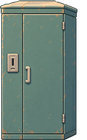
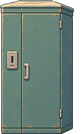
Ducha de la plaza donde la marcó el autor: a la derecha de la fuente, abierta y cerrada, a escala con el fondo
Claude-Session: https://claude.ai/code/session_01FYCCD4ovNXzH9stagu8csu

diff --git a/src/core/lugares.ts b/src/core/lugares.ts
@@ -159,8 +159,9 @@ const PLAZA: Escenario = {
   fondos: [[0, 'plaza']],
   suelo: { x0: 20, x1: 460, y0: 186, y1: 262 },
   inicio: { x: 220, y: 226 },
-  // Entre el banco y la fuente: lejos de las palomas, que se ven pintadas en el fondo.
-  duchas: [{ x: 166, y: 156, alto: 70, px: 166, py: 196, dibujo: 'plaza', imagen: 'ducha_plaza', abierta: 'ducha_plaza_abierta' }],
+  // A la derecha de la fuente, delante de los arbustos, donde la marcó el autor sobre una captura (R031).
+  // Las palomas del fondo quedan delante, más abajo, sin taparse.
+  duchas: [{ x: 325.7, y: 136.5, alto: 67, px: 325, py: 190, dibujo: 'plaza', imagen: 'ducha_plaza', abierta: 'ducha_plaza_abierta' }],
   zonas: [
     { id: 'banco', nombre: 'Banco de la plaza', x0: 64, y0: 120, x1: 146, y1: 172, px: 105, py: 198,
       mirar: ['Mi nuevo dormitorio. Tiene vista a la fuente y techo de árbol.', 'Un banco de madera. Más cómodo que el cartón, te lo aseguro.'],

diff --git a/scripts/arte/duchas_nuevas.py b/scripts/arte/duchas_nuevas.py
@@ -41,7 +41,7 @@ reducir(cab, 88).save(B + 'objetos/ducha_callejon_1.png')
 CAJA = (175, 291, 900, 1464)
 for src, dst in [('ducha_plaza_cerrada.png', 'ducha_plaza.png'), ('ducha_plaza_abierta.png', 'ducha_plaza_abierta.png')]:
     im = Image.open(F + src).convert('RGBA').crop(CAJA)
-    r = reducir(im, 70)
+    r = reducir(im, 67)
     r.save(B + 'objetos/' + dst)
     print(dst, r.size)
 

diff --git a/docs/DECISIONES.md b/docs/DECISIONES.md
@@ -245,3 +245,11 @@ Al autor no le gustaron las duchas recortadas del fondo y preparó dibujos propi
 - **Datos:** cada ducha indica su dibujo (`dibujo`, `imagen`, `abierta`) o una `puerta` del fondo. `DIBUJOS_DUCHA` tiene los tamaños para calcular la abertura.
 - **Imágenes:** `scripts/arte/duchas_nuevas.py` las reduce al tamaño exacto con que se muestran. Los originales están en `arte/fuentes/`.
 - **Arreglo:** cuando Rupert tiene un solo cuadro de reposo, el juego lo recolocaba en cada cuadro y no podía caminar hacia la puerta. Ahora no lo recoloca mientras una animación lo tiene ocupado.
+
+## R031 — 2026-11-27 · La ducha de la plaza, donde la marcó el autor
+El autor marcó en naranja, sobre una captura, dónde quería la cabina de la plaza: a la derecha de la fuente, delante de los arbustos.
+- **Medidas:** se midió la mancha en la captura y se pasó a coordenadas del mundo (480×270): unos 41 px de ancho y 67 de alto, con la base en y = 136,5. La cabina ocupa ese recuadro (la puerta abierta llega al borde derecho de la mancha).
+- **Proporción con el fondo:** a esa altura la cabina mide algo más que Rupert parado en primer plano, lo razonable para algo que está más lejos.
+- **Palomas:** quedan delante (más abajo) y no se tapan. Rupert se para en x = 325, y = 190 y camina hacia la cabina achicándose, igual que antes.
+- **Dibujos:** `duchas_nuevas.py` genera la cabina de la plaza a 67 px de alto (134 px en pantalla), el tamaño exacto con que se muestra.
+- **Comprobación:** se renderizó con el mismo tamaño de pantalla de la captura y la cabina coincide con la mancha (base a 1 px, borde izquierdo igual).
